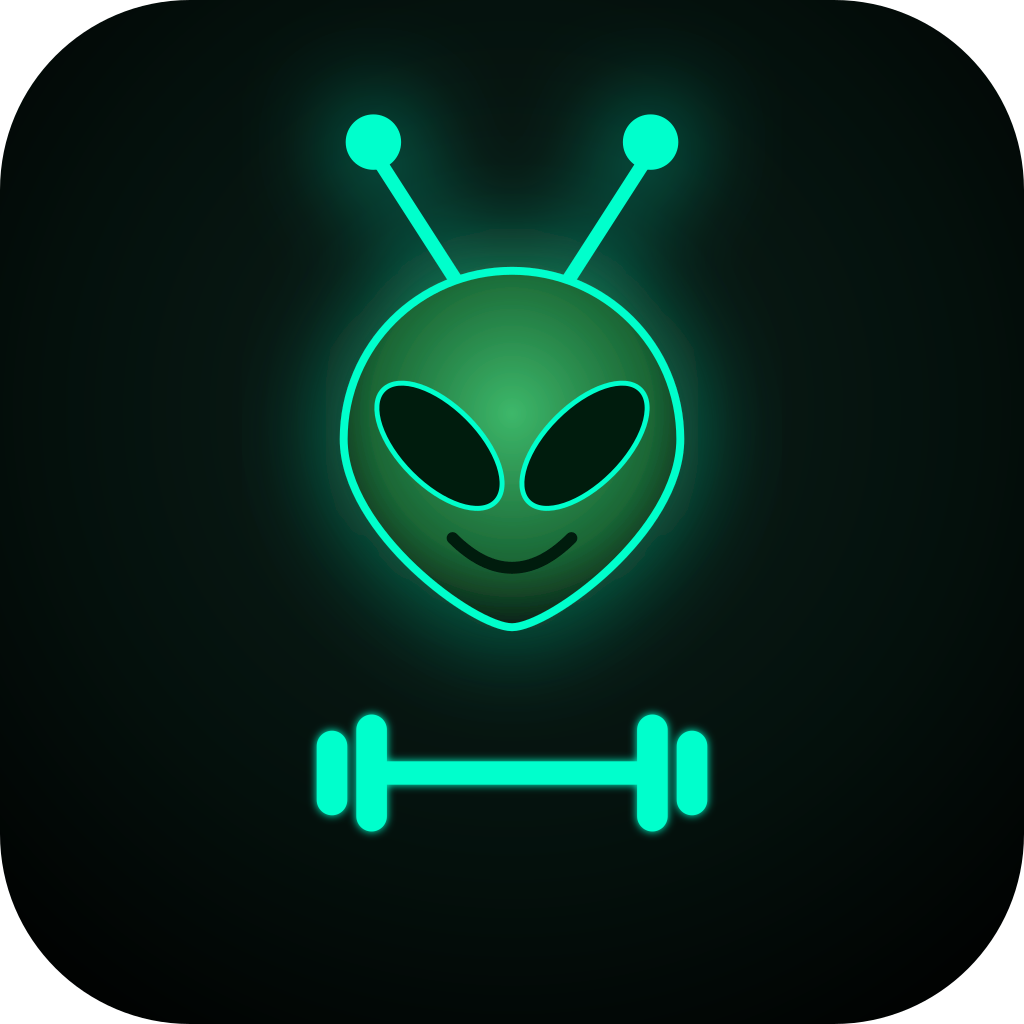
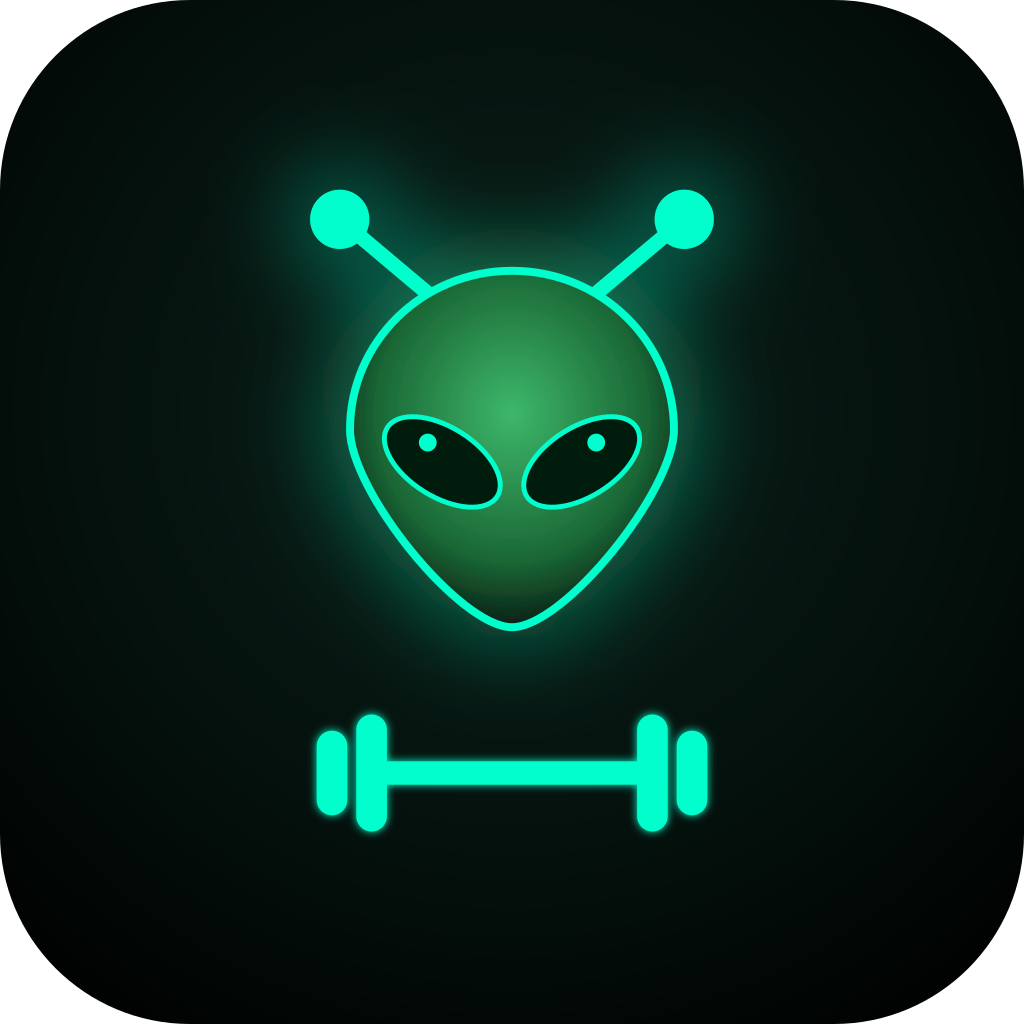
Alien Fitness v2.9.0: App-Karte DE/EN (Halte-Timer, Backup als Datei, Vibration), eigenes App-Symbol, Lizenzseite „bis Version 2.8.1“

Changed region(s): [[0.3125, 0.3125, 0.6875, 0.5938], [0.5312, 0.0938, 0.7188, 0.2812], [0.2812, 0.0938, 0.4688, 0.2812]]

diff --git a/apps.html b/apps.html
@@ -836,24 +836,25 @@
         <ul>
           <li>Eigene Trainingspläne anlegen oder die mitgelieferten nutzen: Kraft (Push / Pull / Legs) und HIT (Tabata, Power)</li>
           <li>Freie Workouts: leer starten, Übungen unterwegs hinzufügen, am Ende speichern</li>
-          <li>Live-Logging mit Pausen- und HIT-Intervall-Timer, „Letztes Mal"-Vergleich und Korrekturen</li>
+          <li>Live-Logging mit Pausen-, HIT-Intervall- und Halte-Timer (Plank), „Letztes Mal"-Vergleich und Korrekturen</li>
           <li>Unterbrochene Trainings fortsetzen, Trainingsnotizen je Einheit</li>
           <li>Fortschritts-Charts pro Übung (Maxgewicht / Wiederholungen über Zeit)</li>
           <li>Übungsbibliothek mit Bildern, Muskelgruppen und Equipment</li>
-          <li>JSON-Backup zum Sichern und Umziehen (zusammenführen oder ersetzen)</li>
+          <li>JSON-Backup als Datei sichern und teilen, Import zum Umziehen (zusammenführen oder ersetzen)</li>
           <li>Quelloffen, bisher kein unabhängiges Audit</li>
         </ul>
 
         <details class="more">
           <summary>Neu in den letzten Versionen</summary>
           <ul>
+            <li>Seit v2.9: Halte-Timer für Plank (Haltezeit wählen, 5&nbsp;s Vorlauf, Stoppuhr), „Letztes Mal" auf jeder Übungskarte, Backup als Datei im Ordner „Documents" mit Teilen-Dialog (ab Android 11; ältere Versionen: nur Teilen-Dialog), Vibration am Timer-Ende, eigenes App-Symbol</li>
             <li>Seit v2.8.1: 14 Übungsbilder neu gezeichnet – Griff, Haltung und Gerät passen jetzt zur Beschreibung (z.&nbsp;B. Chin-up im Untergriff, einarmiges Rudern mit Knie und Hand auf der Bank, Hammer Curl im Neutralgriff)</li>
             <li>Seit v2.8: Rückfragen als eigener Dialog in der App statt Android-Systemdialog</li>
             <li>Seit v2.7: Auswahlfelder im Stil der App, die Übungsauswahl mit Filter beim Tippen</li>
           </ul>
         </details>
 
-        <p class="app-meta">Android / GrapheneOS · Open Source · kein Konto, kein Server, keine Internet-Berechtigung</p>
+        <p class="app-meta">Android / GrapheneOS · Open Source · kein Konto, kein Server, keine Internet-Berechtigung (nur Vibration)</p>
         <details class="more fp">
           <summary>Echtheit prüfen (Signatur-Fingerprint)</summary>
           <div class="app-fp">

diff --git a/en/apps.html b/en/apps.html
@@ -839,24 +839,25 @@
         <ul>
           <li>Create your own training plans or use the built-in ones: strength (Push / Pull / Legs) and HIT (Tabata, Power)</li>
           <li>Free workouts: start empty, add exercises on the fly, save when done</li>
-          <li>Live logging with rest and HIT interval timer, "last time" comparison and corrections</li>
+          <li>Live logging with rest, HIT interval and hold timer (plank), "last time" comparison and corrections</li>
           <li>Resume interrupted workouts, per-session training notes</li>
           <li>Progress charts per exercise (max weight / reps over time)</li>
           <li>Exercise library with images, muscle groups and equipment</li>
-          <li>JSON backup to save and migrate (merge or replace)</li>
+          <li>JSON backup saved and shared as a file, import to migrate (merge or replace)</li>
           <li>Open source, no independent audit so far</li>
         </ul>
 
         <details class="more">
           <summary>New in recent versions</summary>
           <ul>
+            <li>Since v2.9: hold timer for the plank (pick the hold time, 5&nbsp;s get-ready countdown, stopwatch), "last time" on every exercise card, backup as a file in the "Documents" folder with the share sheet (Android 11+; older versions: share sheet only), vibration at the end of a timer, own app icon</li>
             <li>Since v2.8.1: 14 exercise images redrawn – grip, posture and equipment now match the description (e.g. chin-up with an underhand grip, one-arm row with knee and hand on the bench, hammer curl with a neutral grip)</li>
             <li>Since v2.8: confirmations as the app's own dialog instead of the Android system dialog</li>
             <li>Since v2.7: pickers in the app's own style, the exercise picker with filter-as-you-type</li>
           </ul>
         </details>
 
-        <p class="app-meta">Android / GrapheneOS · open source · no account, no server, no internet permission</p>
+        <p class="app-meta">Android / GrapheneOS · open source · no account, no server, no internet permission (vibration only)</p>
         <details class="more fp">
           <summary>Verify authenticity (signing fingerprint)</summary>
           <div class="app-fp">

diff --git a/en/lizenzen.html b/en/lizenzen.html
@@ -37,13 +37,13 @@
   api.alien-investor.org, in my apps and in the companion materials for my books.</p>
 
   <h2 id="alien-icon">Alien icon</h2>
-  <p>The alien icon in the app icons of Sachwert-Tresor, Alien Fitness, Alien Pass, Alien Notes and the Ausgaben-Tracker
-  up to version 1.11 (including their images and the app trailers on this website) and in earlier versions of this
+  <p>The alien icon in the app icons of Sachwert-Tresor, Alien Pass, Alien Notes, of Alien Fitness up to version 2.8.1
+  and of the Ausgaben-Tracker up to version 1.11 (including their images and the app trailers on this website) and in earlier versions of this
   website, of the workshop sheets, of the Bitcoin Beginner Guide (PDF) and of the inserts shipped with the Alien Phone
   (including screen recordings in videos and on this website) is based on the “Alien” emoji (U+1F47D) from Twemoji. Since
   7 November 2026 the website and the tools on api.alien-investor.org use an alien logo of their own, and since 8 November
   2026 so do the workshop sheets, the Bitcoin Beginner Guide and the Alien Phone inserts. The app icons will follow with
-  the next versions of the apps (already done for the Ausgaben-Tracker as of version 1.12).</p>
+  the next versions of the apps (already done for the Ausgaben-Tracker as of version 1.12 and for Alien Fitness as of version 2.9).</p>
   <div class="box">
     <p><strong>Work:</strong> Twemoji, graphic “Alien”
     (<a href="https://github.com/twitter/twemoji/blob/master/assets/svg/1f47d.svg" target="_blank" rel="noopener"><code>1f47d.svg</code></a>),

diff --git a/lizenzen.html b/lizenzen.html
@@ -37,13 +37,13 @@
   api.alien-investor.org, in meinen Apps und in den Begleitmaterialien zu meinen Büchern verwende.</p>
 
   <h2 id="alien-symbol">Alien-Symbol</h2>
-  <p>Das Alien-Symbol in den App-Symbolen von Sachwert-Tresor, Alien Fitness, Alien Pass, Alien Notes und des
-  Ausgaben-Trackers bis Version 1.11 (auch auf ihren Abbildungen und in den App-Trailern hier auf der Website) und in
+  <p>Das Alien-Symbol in den App-Symbolen von Sachwert-Tresor, Alien Pass, Alien Notes, von Alien Fitness bis Version 2.8.1
+  und des Ausgaben-Trackers bis Version 1.11 (auch auf ihren Abbildungen und in den App-Trailern hier auf der Website) und in
   älteren Fassungen dieser Website, der Werkstatt-Blätter, des Bitcoin-Einsteiger-Guides (PDF) und der Beileger zum Alien
   Phone (auch auf Bildschirmaufnahmen in Videos und auf dieser Website) basiert auf dem Emoji „Alien“ (U+1F47D) aus Twemoji. Seit 7. November
   2026 nutzen die Website und die Werkzeuge auf api.alien-investor.org ein eigenes Alien-Logo, seit 8. November 2026 auch
   die Werkstatt-Blätter, der Bitcoin-Einsteiger-Guide und die Beileger zum Alien Phone. Die App-Symbole folgen mit den
-  nächsten Versionen der Apps (Ausgaben-Tracker seit Version 1.12).</p>
+  nächsten Versionen der Apps (Ausgaben-Tracker seit Version 1.12, Alien Fitness seit Version 2.9).</p>
   <div class="box">
     <p><strong>Werk:</strong> Twemoji, Grafik „Alien“
     (<a href="https://github.com/twitter/twemoji/blob/master/assets/svg/1f47d.svg" target="_blank" rel="noopener"><code>1f47d.svg</code></a>),
